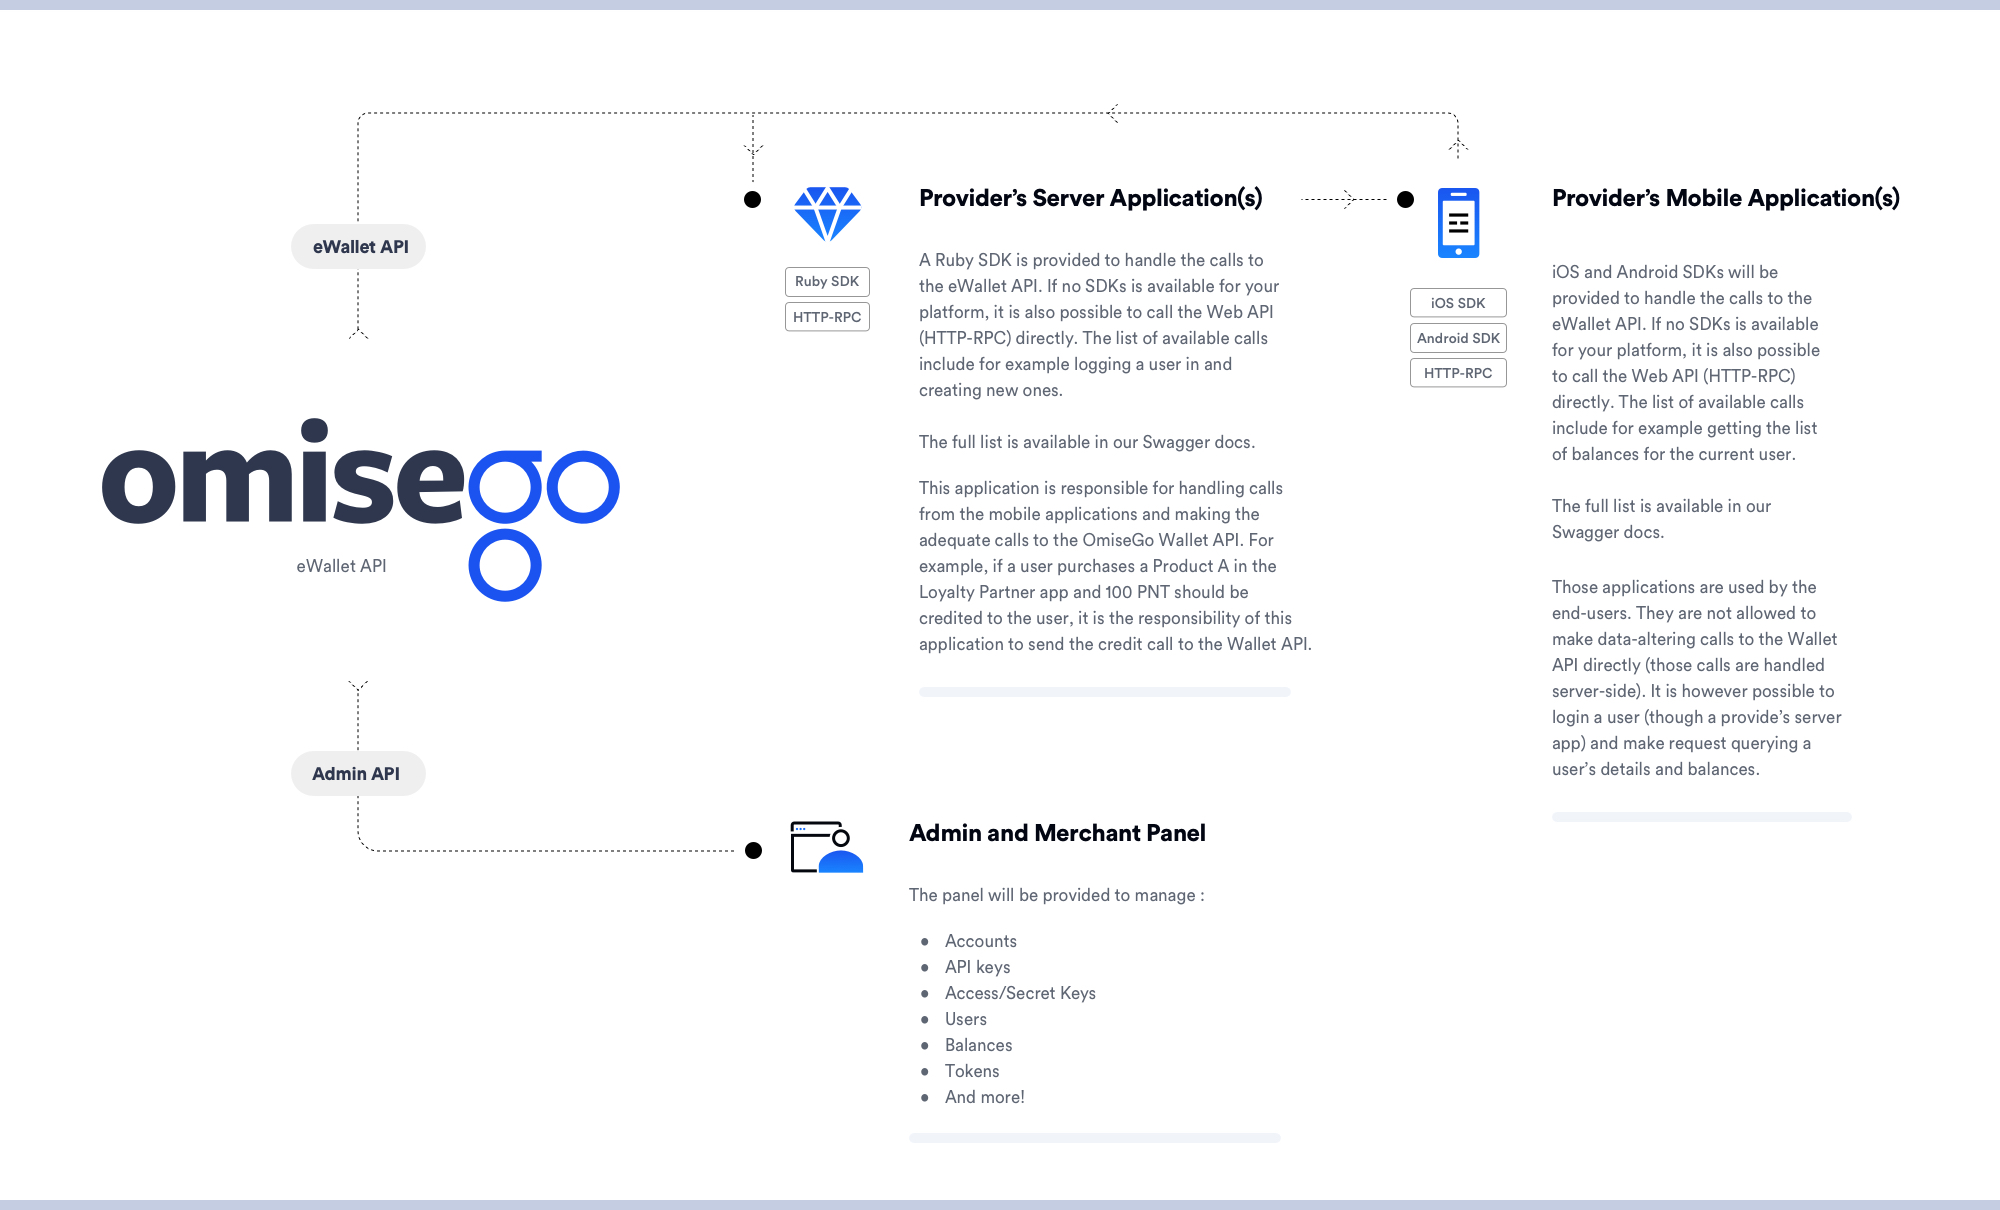
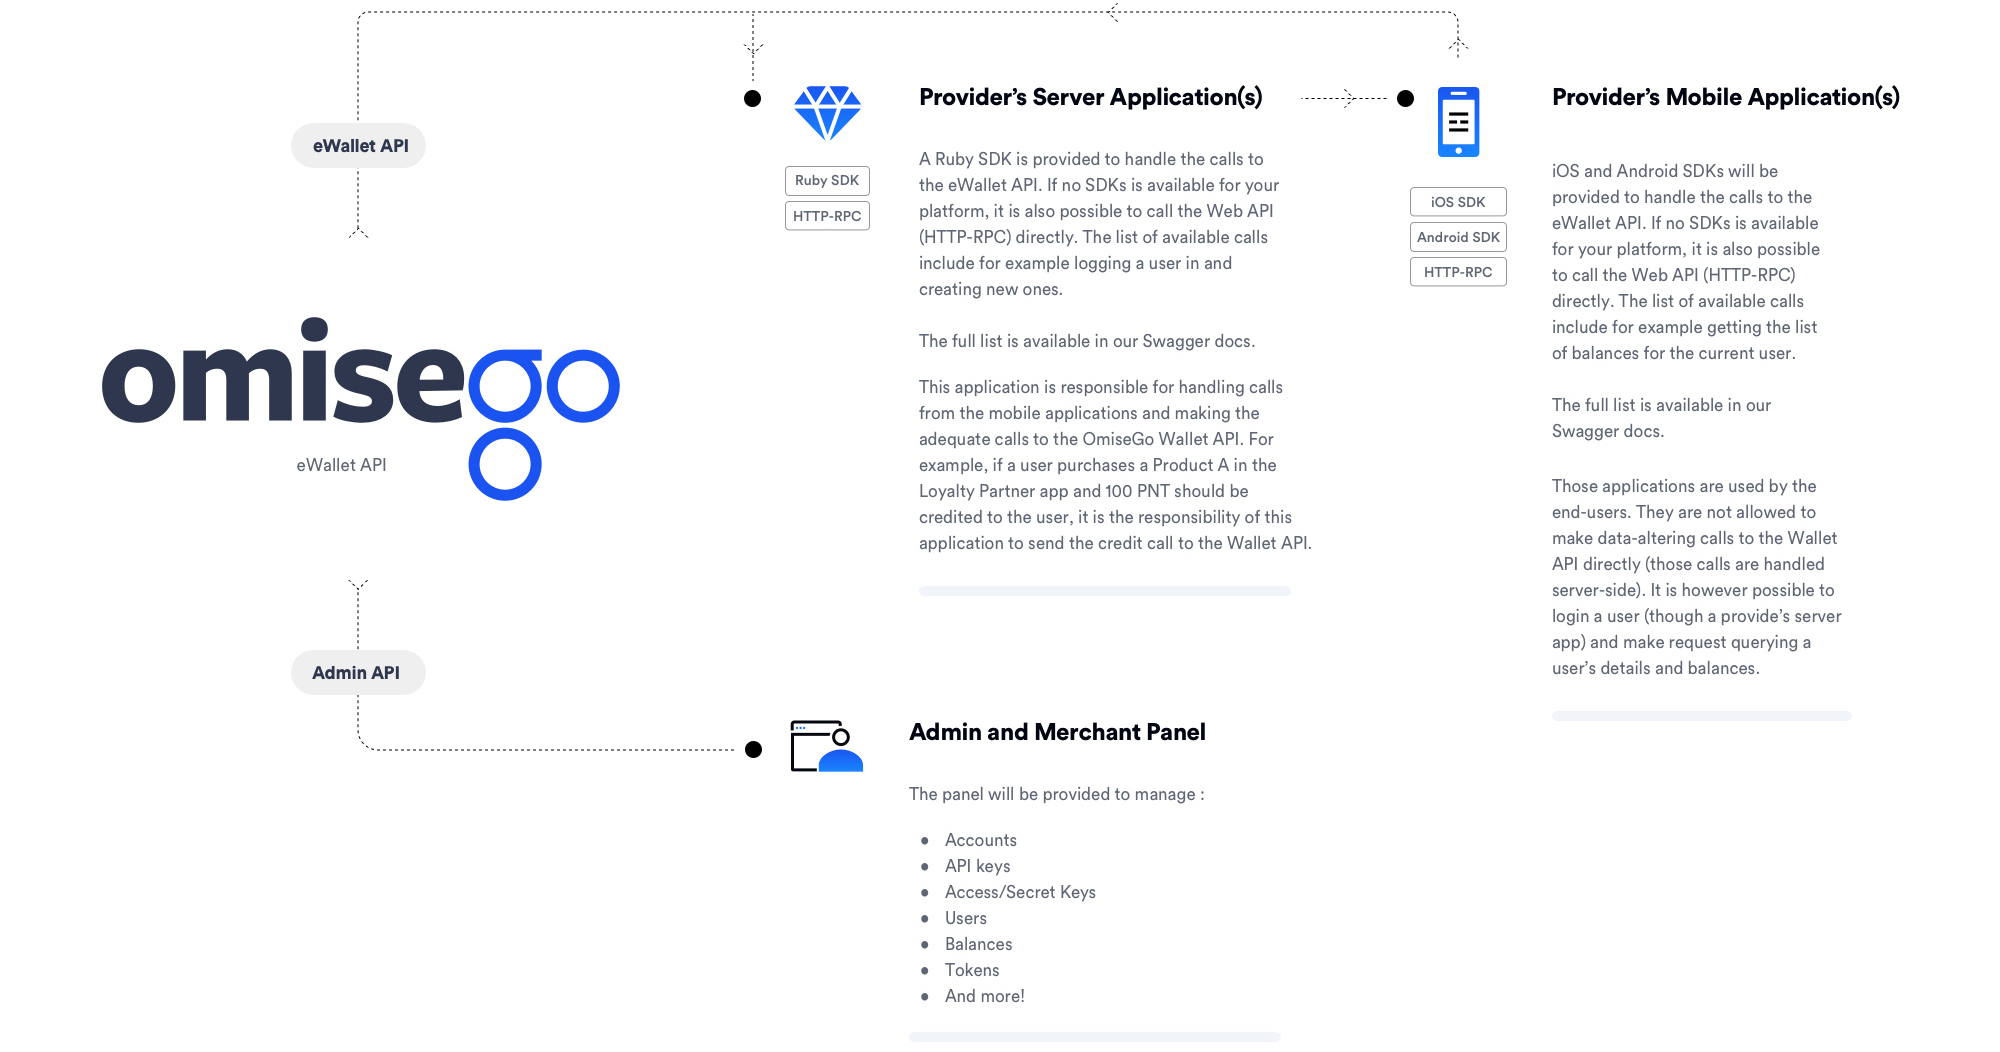
Update from suggestions

diff --git a/README.md b/README.md
@@ -4,27 +4,35 @@
 
 [![Build Status](https://jenkins.omisego.io/buildStatus/icon?job=omisego/ewallet/master)](https://jenkins.omisego.io/blue/organizations/jenkins/omisego%2Fewallet/activity?branch=master) [![Gitter chat](https://badges.gitter.im/omisego/ewallet.png)](https://gitter.im/omisego/ewallet)
 
-This is the main server component of the OmiseGO eWallet SDKs that allows businesses and individuals to setup and run their own digital wallet services through their own local ledger.
+This is the main server component of the OmiseGO eWallet SDKs that allows businesses and individuals (referred here as the "provider") to setup and run their own digital wallet services through their own local ledger.
 
 This server component and its sibling SDKs will later be plugged onto a blockchain and connected to a decentralized exchange. **Blockchain capabilities are expected to be added as they become ready.** All active instances of the OmiseGO eWallet will then become a federated network forming the top layer of the OMG network, allowing the exchange of any currency into any other in a transparent way.
 
-The OmiseGO eWallet SDKs are also available in [Ruby](https://github.com/omisego/ruby-sdk) ([sample server](https://github.com/omisego/sample-server)), [iOS](https://github.com/omisego/ios-sdk) ([sample app](https://github.com/omisego/sample-ios)), [Android](https://github.com/omisego/android-sdk) ([sample app](https://github.com/omisego/sample-android)).
+The OmiseGO eWallet SDKs are also available in [Ruby](https://github.com/omisego/ruby-sdk) ([sample server](https://github.com/omisego/sample-server)), [iOS](https://github.com/omisego/ios-sdk) ([sample app](https://github.com/omisego/sample-ios)) and [Android](https://github.com/omisego/android-sdk) ([sample app](https://github.com/omisego/sample-android)).
+
+## Overview
+
+Here is an overview of all the SDK components and what needs to be integrated by a provider.
+
+![A provider's Sample Setup](assets/provider_setup.jpg)
 
 ## Getting started
 
-Pick one of the 3 following approaches that best suits your needs:
+Pick one of the 3 following setup approaches that best suits your needs:
 
-- **[Docker setup](docs/setup/docker.md) (recommended)**: The fastest way to get the server up and running with minimum configurations.
-- [Vagrant setup](docs/setup/vagrant.md): Sets up a flexible development environment. Recommended for contributing to the code base.
-- [Bare-metal setup](docs/setup/bare_metal.md): Sets up directly onto your base operating system. No virtualization involved.
+Setup | Description | Recommended for
+-----------|-------------|----------------
+[Docker](docs/setup/docker.md) | A pre-packaged image for production uses. No build-time dependencies. Packaged with Distillery. | Developers and DevOps looking to integrate or deploy the eWallet without changing its internals.
+[Vagrant](docs/setup/vagrant.md) | A development environment bootstrapper using Vagrant. Comes with default configurations and full build tools. | Developers looking to contribute to the codebase.
+[Bare-metal](docs/setup/bare_metal.md) | Set up directly onto your base operating system. You will need to install Elixir, project's dependencies and Postgres manually if you havn't. | Developers and DevOps preferring to manage all dependencies and configurations themselves for any purposes.
 
 ## Documentation
 
 Choose the area that you are interested to learn more about the eWallet server:
 
-- [Demo](docs/demo.md): Explore available APIs without setting up your own servers.
+- [Demo](docs/demo.md): Explore the available APIs without setting up your own servers.
 - [Guides](docs/guides/guides.md): Understand how the eWallet server works behind the scene.
-- [Design](docs/design/design.md): Find out how the eWallet server was built and the technical design decisions that revolve around it.
+- [Design](docs/design/design.md): Find out about the technical design decisions that revolve around the eWallet server.
 - [Tests](docs/tests/tests.md): See how tests are organized for the eWallet server.
 
 Optionally, you can also follow our advanced setup guides to customize your eWallet server:

diff --git a/docs/guides/api_responsibilities.md b/docs/guides/api_responsibilities.md
@@ -9,13 +9,6 @@ Integrating the OmiseGO eWallet requires a new setup to be deployed. Feel free t
 - **Admin API ([docs](https://ewallet.demo.omisego.io/api/admin/docs.ui)):** Make calls to the Admin API to manage tokens, accounts, users, transactions, global settings, etc.
 - **Client API ([docs](https://ewallet.demo.omisego.io/api/client/docs.ui)):** Make calls to the Client API to transact on behalf of a specific user.
 
-
-## OmiseGO SDK Integration Diagram
-
-Here’s an overview of all the components and what needs to be integrated by a provider (and how):
-
-![A provider's Sample Setup](/assets/provider_setup.jpg)
-
 ## Responsibilities
 
 ### Features provided by the SDKs
